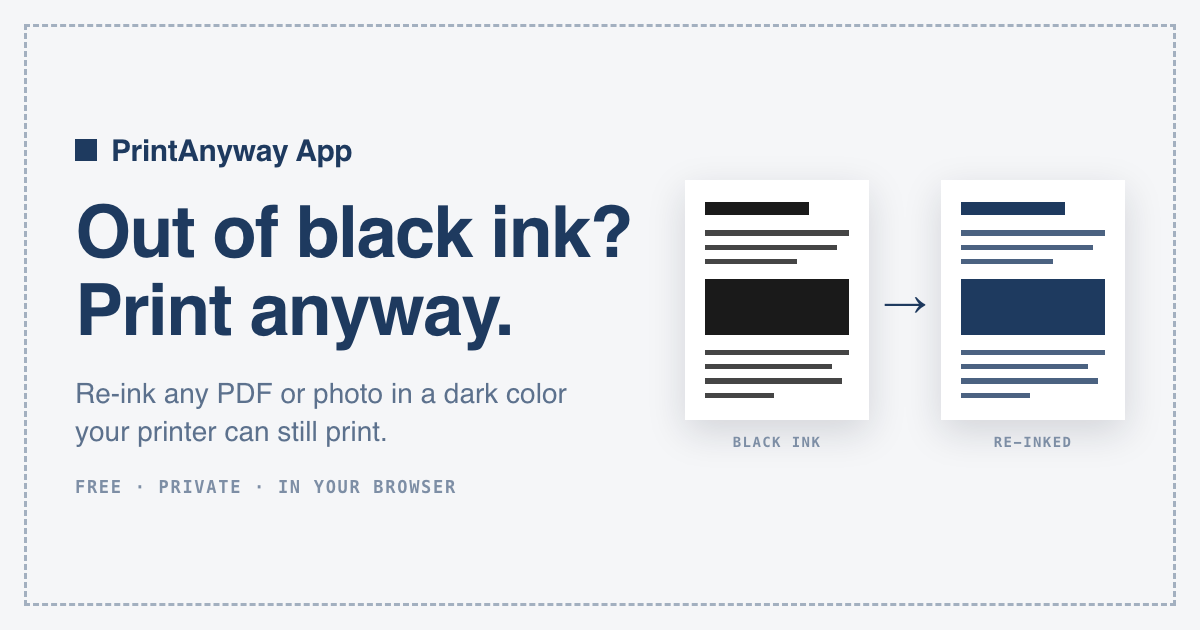
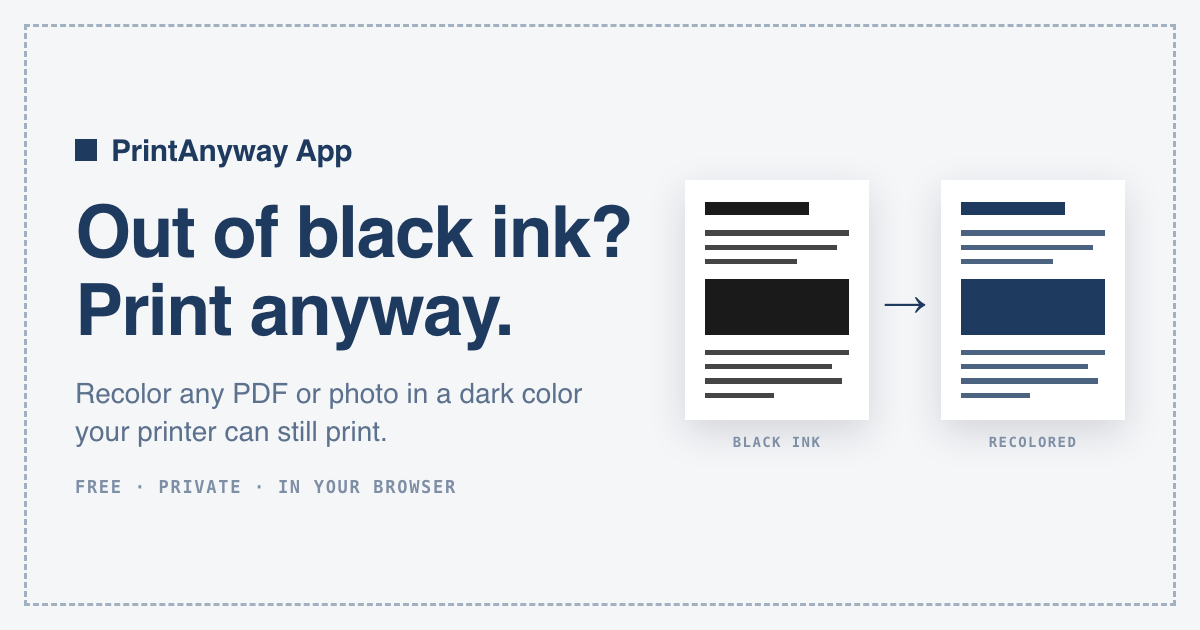
Say "recolor" instead of "re-ink" across the site
The landing page already says recolor; the meta and share descriptions,
preview captions, drag overlay, share image and download filename
(-recolored.pdf) now match. The caption becomes "✓ Recolored: {ink}",
the form the translations already use. The translations needed no
changes.

Changed region(s): [[0.0925, 0.6032, 0.4933, 0.6635], [0.8017, 0.6937, 0.8942, 0.7238]]

diff --git a/tools/og-image.html b/tools/og-image.html
@@ -154,7 +154,7 @@
       <div class="copy">
         <div class="brand"><div class="brand-square"></div>PrintAnyway App</div>
         <h1>Out of black ink?<br />Print anyway.</h1>
-        <p class="sub">Re-ink any PDF or photo in a dark color your printer can still print.</p>
+        <p class="sub">Recolor any PDF or photo in a dark color your printer can still print.</p>
         <div class="meta">Free · Private · In your browser</div>
       </div>
       <div class="pages">
@@ -185,7 +185,7 @@
             <div class="bar" style="width: 95%"></div>
             <div class="bar" style="width: 48%"></div>
           </div>
-          <div class="caption">Re-inked</div>
+          <div class="caption">Recolored</div>
         </div>
       </div>
     </div>

diff --git a/src/lib/exportPdf.ts b/src/lib/exportPdf.ts
@@ -22,7 +22,7 @@ export async function exportRecoloredPdf(
   const url = URL.createObjectURL(blob);
   const link = document.createElement('a');
   link.href = url;
-  link.download = sourceName.replace(/\.[^.]+$/, '') + '-reinked.pdf';
+  link.download = sourceName.replace(/\.[^.]+$/, '') + '-recolored.pdf';
   link.click();
   setTimeout(() => URL.revokeObjectURL(url), 10_000);
 }

diff --git a/src/lib/recolor.ts b/src/lib/recolor.ts
@@ -66,7 +66,7 @@ function inkLut(inkHex: string): Uint8Array {
 }
 
 /**
- * Re-ink a page from its cached luminance map. Reuses `target` when given so
+ * Recolor a page from its cached luminance map. Reuses `target` when given so
  * the mounted preview canvas updates in place on swatch changes.
  */
 export function recolorToCanvas(

diff --git a/src/i18n/GLOSSARY.md b/src/i18n/GLOSSARY.md
@@ -27,7 +27,7 @@ Plain, short and friendly. People arrive frustrated by a printer that won't prin
 |---|---|---|---|---|
 | black ink | tinta negra | tinta preta | encre noire | schwarze Tinte |
 | cartridge | cartucho | cartucho | cartouche | Patrone |
-| re-ink / recolor | recolorear | recolorir | recolorer | umfärben |
+| recolor | recolorear | recolorir | recolorer | umfärben |
 | Epson / Canon stop button | Detener/Cancelar (Stop/Cancel), Parar (Stop) | Parar/Cancelar (Stop/Cancel), Parar (Stop) | Arrêt/Annuler (Stop/Cancel), Arrêt (Stop) | Stopp/Abbrechen (Stop/Cancel), Stopp (Stop) |
 | print dialog | ventana de impresión | janela de impressão | fenêtre d’impression | Druckdialog |
 | grayscale | escala de grises | tons de cinza | niveaux de gris | Graustufen |
